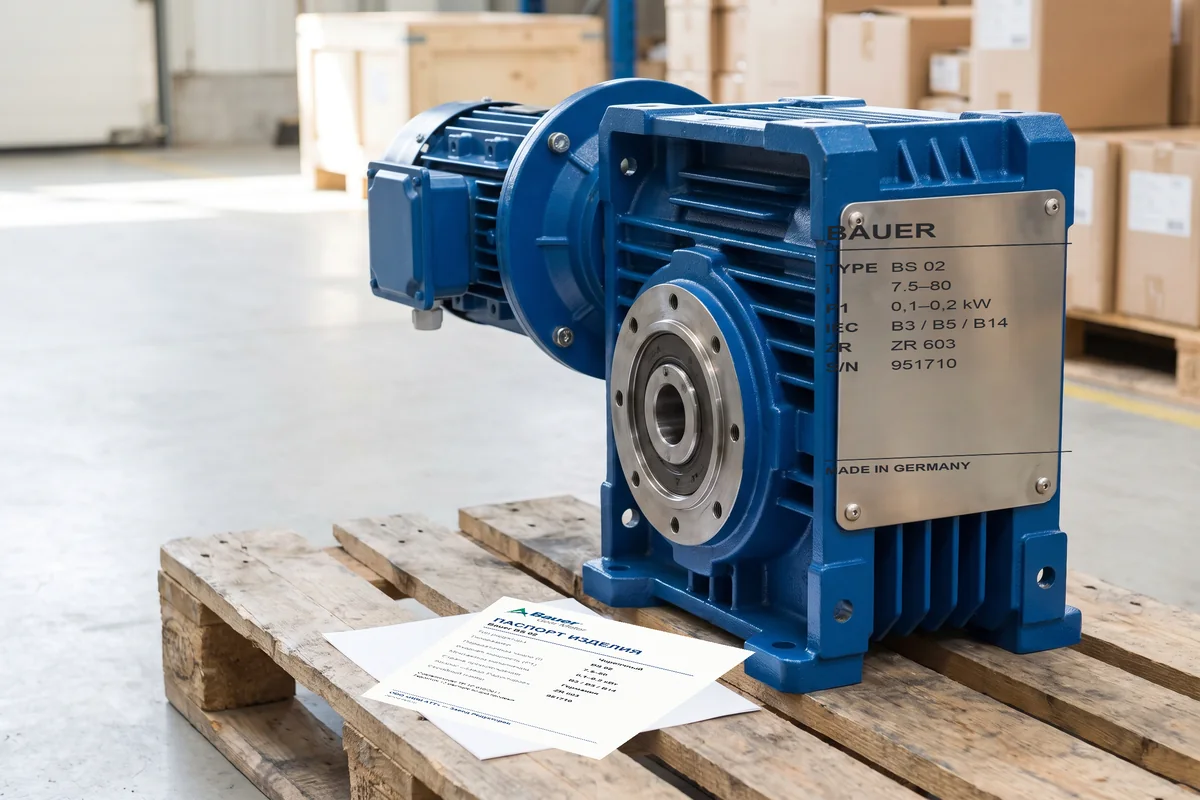
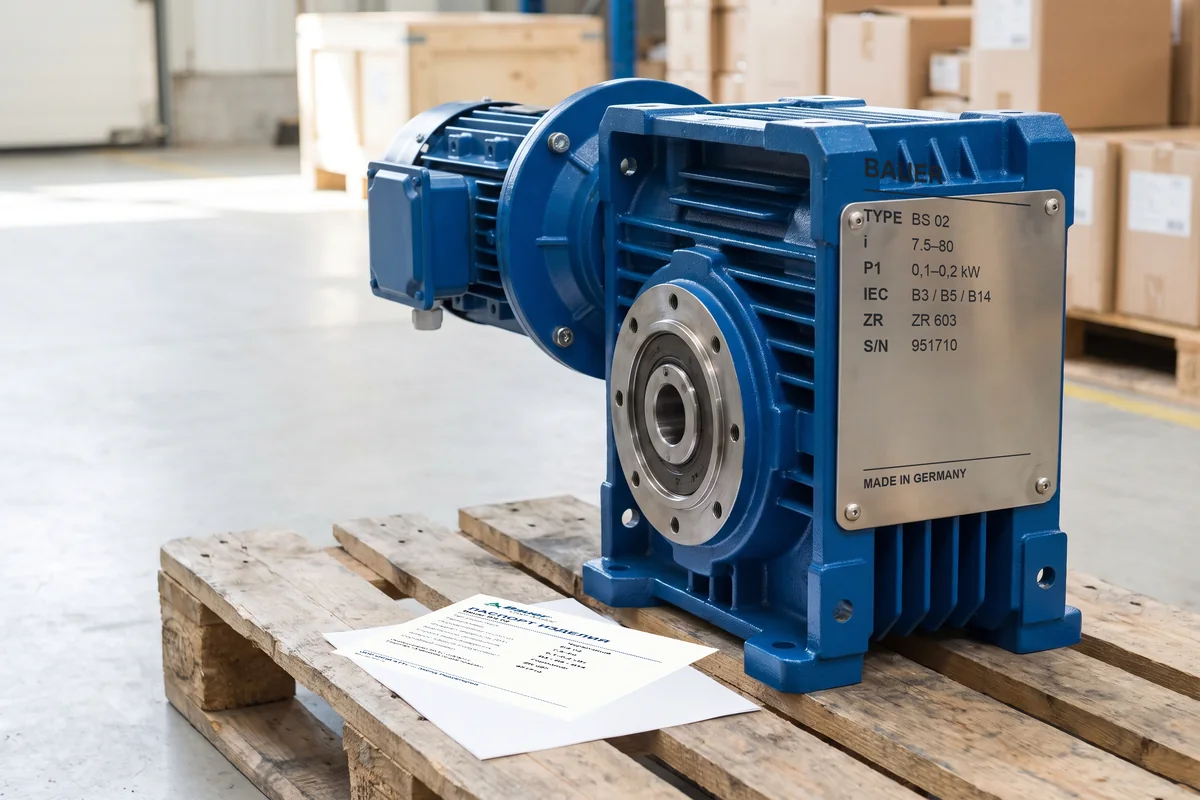
Карточки в виде эталона: 61 штука с таблицей, водяными знаками и знаками соответствия
Заказчику нужен вид референса целиком, а не голое фото. Собрано в assets/cards/:
фото со впечатанными шильдиком и паспортом + панель характеристик слева,
логотип бренда и ZR в шапке, водяные знаки тайлом, CE/ISO/EAC и флаг страны.
Средний вес 92 КБ при 1200×800.

Попутно исправлено:
  * разметка площадок worm-v2 и coax-v2 — маркировка садилась левее и уже
    реальной таблички, текст выходил на корпус;
  * колонка значений расширена до половины таблицы: «Коническо-цилиндрический»
    не влезал и обрезался многоточием;
  * fit() схлопывает переносы строк — textlength не умеет мерить
    многострочный текст и валил сборку на данных с переводом строки.

diff --git a/tools/imggen/card.py b/tools/imggen/card.py
@@ -40,7 +40,7 @@ PANEL_W = int(W * 0.40)
 TBL_W = 470
 TBL_TOP = 232
 ROW_H = 52
-COL_K = int(TBL_W * 0.55)
+COL_K = int(TBL_W * 0.50)
 
 # Типовые характеристики по типу передачи. Это конструктивные свойства класса,
 # а не выдуманные цифры типоразмера: чугунный червячный редуктор всегда
@@ -157,7 +157,12 @@ def rows_for(card):
 
 def fit(draw, text, fnt, maxw):
     """Ужимает строку под ширину ячейки — типоразмеры вида
-    'BG 10X, BG 15, BG 20' длиннее колонки."""
+    'BG 10X, BG 15, BG 20' длиннее колонки.
+
+    Переносы в исходных данных схлопываем: textlength не умеет мерить
+    многострочный текст и падает, а в ячейке всё равно одна строка.
+    """
+    text = " ".join(str(text).split())
     if draw.textlength(text, font=fnt) <= maxw:
         return text
     while text and draw.textlength(text + "…", font=fnt) > maxw:

diff --git a/tools/imggen/frames.py b/tools/imggen/frames.py
@@ -46,8 +46,8 @@ QUADS = {
         "doc": [(0.435, 0.772), (0.808, 0.758), (0.812, 0.878), (0.425, 0.902)],
     },
     "coax-v2": {
-        "plate": [(0.345, 0.315), (0.575, 0.300), (0.575, 0.575), (0.345, 0.620)],
-        "doc": [(0.475, 0.695), (0.720, 0.790), (0.545, 0.945), (0.305, 0.815)],
+        "plate": [(0.412, 0.335), (0.790, 0.275), (0.790, 0.585), (0.412, 0.650)],
+        "doc": [(0.605, 0.682), (0.880, 0.752), (0.660, 0.845), (0.412, 0.778)],
     },
     "flat-v0": {
         "plate": [(0.628, 0.510), (0.715, 0.535), (0.708, 0.720), (0.622, 0.698)],
@@ -66,8 +66,8 @@ QUADS = {
         "doc": [(0.505, 0.790), (0.815, 0.685), (0.925, 0.775), (0.615, 0.925)],
     },
     "worm-v2": {
-        "plate": [(0.665, 0.255), (0.915, 0.245), (0.915, 0.605), (0.665, 0.620)],
-        "doc": [(0.420, 0.745), (0.630, 0.815), (0.500, 0.950), (0.300, 0.870)],
+        "plate": [(0.702, 0.155), (0.872, 0.190), (0.872, 0.615), (0.702, 0.648)],
+        "doc": [(0.400, 0.742), (0.600, 0.812), (0.475, 0.902), (0.275, 0.815)],
     },
 }
 
